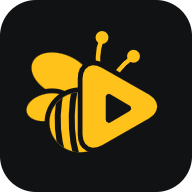
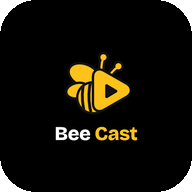
Simge: tüm platformlarda Samsung'daki gibi (mağaza simgesinden tek üretici); eski SVG betikleri kaldırıldı
Claude-Session: https://claude.ai/code/session_01PFvQMb3vRnSJQ1DZysZAwi

diff --git a/en/privacy.html b/en/privacy.html
@@ -13,7 +13,7 @@
   <a class="skip" href="#content">Skip to content</a>
   <div class="wrap">
     <header class="top">
-      <a class="brand" href="./" aria-label="Bee Cast home"><img src="../assets/img/simge-64.png" alt="" width="40" height="40"><span>Bee Cast</span></a>
+      <a class="brand" href="./" aria-label="Bee Cast home"><img src="../assets/img/isaret-64.png" alt="" width="40" height="40"><span>Bee Cast</span></a>
       <nav aria-label="Site">
         <a class="opt" href="./#support">Support</a>
         <a class="lang" href="../gizlilik.html" lang="tr" hreflang="tr">Türkçe</a>

diff --git a/gizlilik.html b/gizlilik.html
@@ -13,7 +13,7 @@
   <a class="skip" href="#icerik">İçeriğe geç</a>
   <div class="wrap">
     <header class="top">
-      <a class="brand" href="./" aria-label="Bee Cast ana sayfa"><img src="assets/img/simge-64.png" alt="" width="40" height="40"><span>Bee Cast</span></a>
+      <a class="brand" href="./" aria-label="Bee Cast ana sayfa"><img src="assets/img/isaret-64.png" alt="" width="40" height="40"><span>Bee Cast</span></a>
       <nav aria-label="Site">
         <a class="opt" href="./#destek">Destek</a>
         <a class="lang" href="en/privacy.html" lang="en" hreflang="en">English</a>

diff --git a/en/help.html b/en/help.html
@@ -13,7 +13,7 @@
   <a class="skip" href="#content">Skip to content</a>
   <div class="wrap">
     <header class="top">
-      <a class="brand" href="./" aria-label="Bee Cast home"><img src="../assets/img/simge-64.png" alt="" width="40" height="40"><span>Bee Cast</span></a>
+      <a class="brand" href="./" aria-label="Bee Cast home"><img src="../assets/img/isaret-64.png" alt="" width="40" height="40"><span>Bee Cast</span></a>
       <nav aria-label="Site">
         <a class="opt" href="./#support">Support</a>
         <a class="lang" href="../yardim.html" lang="tr" hreflang="tr">Türkçe</a>

diff --git a/yardim.html b/yardim.html
@@ -13,7 +13,7 @@
   <a class="skip" href="#icerik">İçeriğe geç</a>
   <div class="wrap">
     <header class="top">
-      <a class="brand" href="./" aria-label="Bee Cast ana sayfa"><img src="assets/img/simge-64.png" alt="" width="40" height="40"><span>Bee Cast</span></a>
+      <a class="brand" href="./" aria-label="Bee Cast ana sayfa"><img src="assets/img/isaret-64.png" alt="" width="40" height="40"><span>Bee Cast</span></a>
       <nav aria-label="Site">
         <a class="opt" href="./#destek">Destek</a>
         <a class="lang" href="en/help.html" lang="en" hreflang="en">English</a>

diff --git a/index.html b/index.html
@@ -15,7 +15,7 @@
   <a class="skip" href="#icerik">İçeriğe geç</a>
   <div class="wrap">
     <header class="top">
-      <a class="brand" href="./" aria-label="Bee Cast ana sayfa"><img src="assets/img/simge-64.png" alt="" width="40" height="40"><span>Bee Cast</span></a>
+      <a class="brand" href="./" aria-label="Bee Cast ana sayfa"><img src="assets/img/isaret-64.png" alt="" width="40" height="40"><span>Bee Cast</span></a>
       <nav aria-label="Site">
         <a class="opt" href="indir.html">İndir</a>
         <a class="opt" href="#ozellikler">Özellikler</a>

diff --git a/en/index.html b/en/index.html
@@ -15,7 +15,7 @@
   <a class="skip" href="#content">Skip to content</a>
   <div class="wrap">
     <header class="top">
-      <a class="brand" href="./" aria-label="Bee Cast home"><img src="../assets/img/simge-64.png" alt="" width="40" height="40"><span>Bee Cast</span></a>
+      <a class="brand" href="./" aria-label="Bee Cast home"><img src="../assets/img/isaret-64.png" alt="" width="40" height="40"><span>Bee Cast</span></a>
       <nav aria-label="Site">
         <a class="opt" href="download.html">Download</a>
         <a class="opt" href="#features">Features</a>

diff --git a/indir.html b/indir.html
@@ -13,7 +13,7 @@
   <a class="skip" href="#icerik">İçeriğe geç</a>
   <div class="wrap">
     <header class="top">
-      <a class="brand" href="./" aria-label="Bee Cast ana sayfa"><img src="assets/img/simge-64.png" alt="" width="40" height="40"><span>Bee Cast</span></a>
+      <a class="brand" href="./" aria-label="Bee Cast ana sayfa"><img src="assets/img/isaret-64.png" alt="" width="40" height="40"><span>Bee Cast</span></a>
       <nav aria-label="Site">
         <a class="opt" href="yardim.html">Yardım</a>
         <a class="opt" href="./#destek">Destek</a>

diff --git a/en/download.html b/en/download.html
@@ -13,7 +13,7 @@
   <a class="skip" href="#content">Skip to content</a>
   <div class="wrap">
     <header class="top">
-      <a class="brand" href="./" aria-label="Bee Cast home"><img src="../assets/img/simge-64.png" alt="" width="40" height="40"><span>Bee Cast</span></a>
+      <a class="brand" href="./" aria-label="Bee Cast home"><img src="../assets/img/isaret-64.png" alt="" width="40" height="40"><span>Bee Cast</span></a>
       <nav aria-label="Site">
         <a class="opt" href="help.html">Help</a>
         <a class="opt" href="./#support">Support</a>
